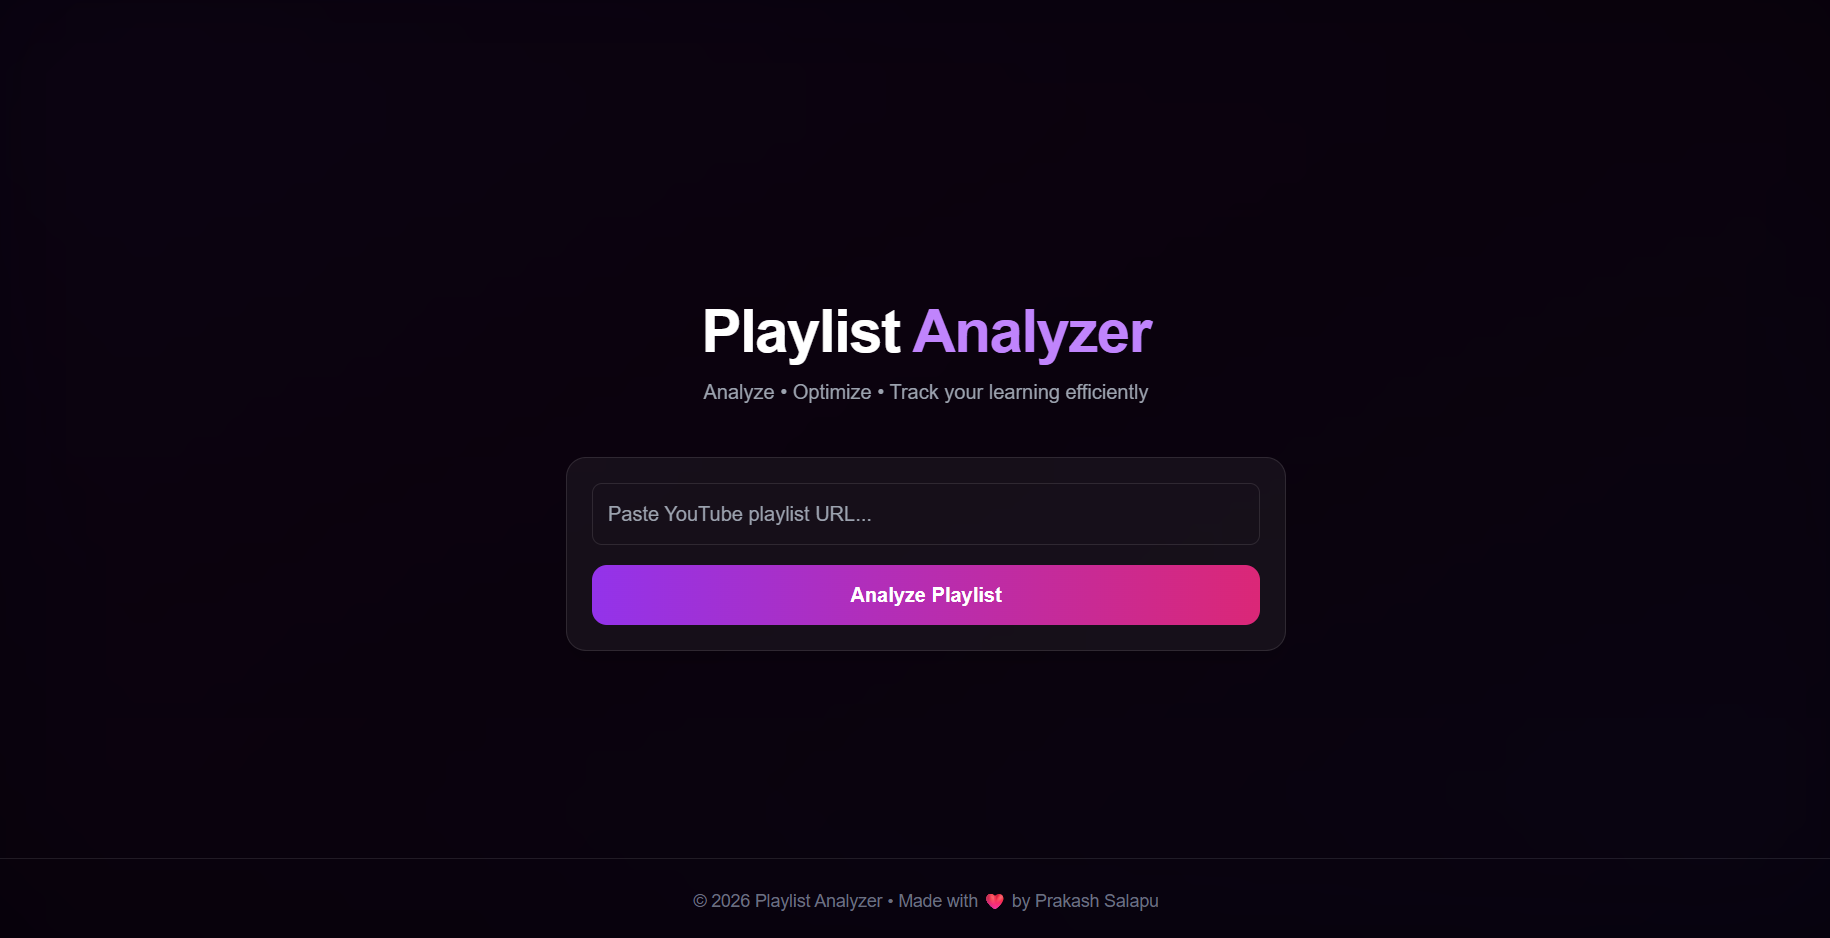
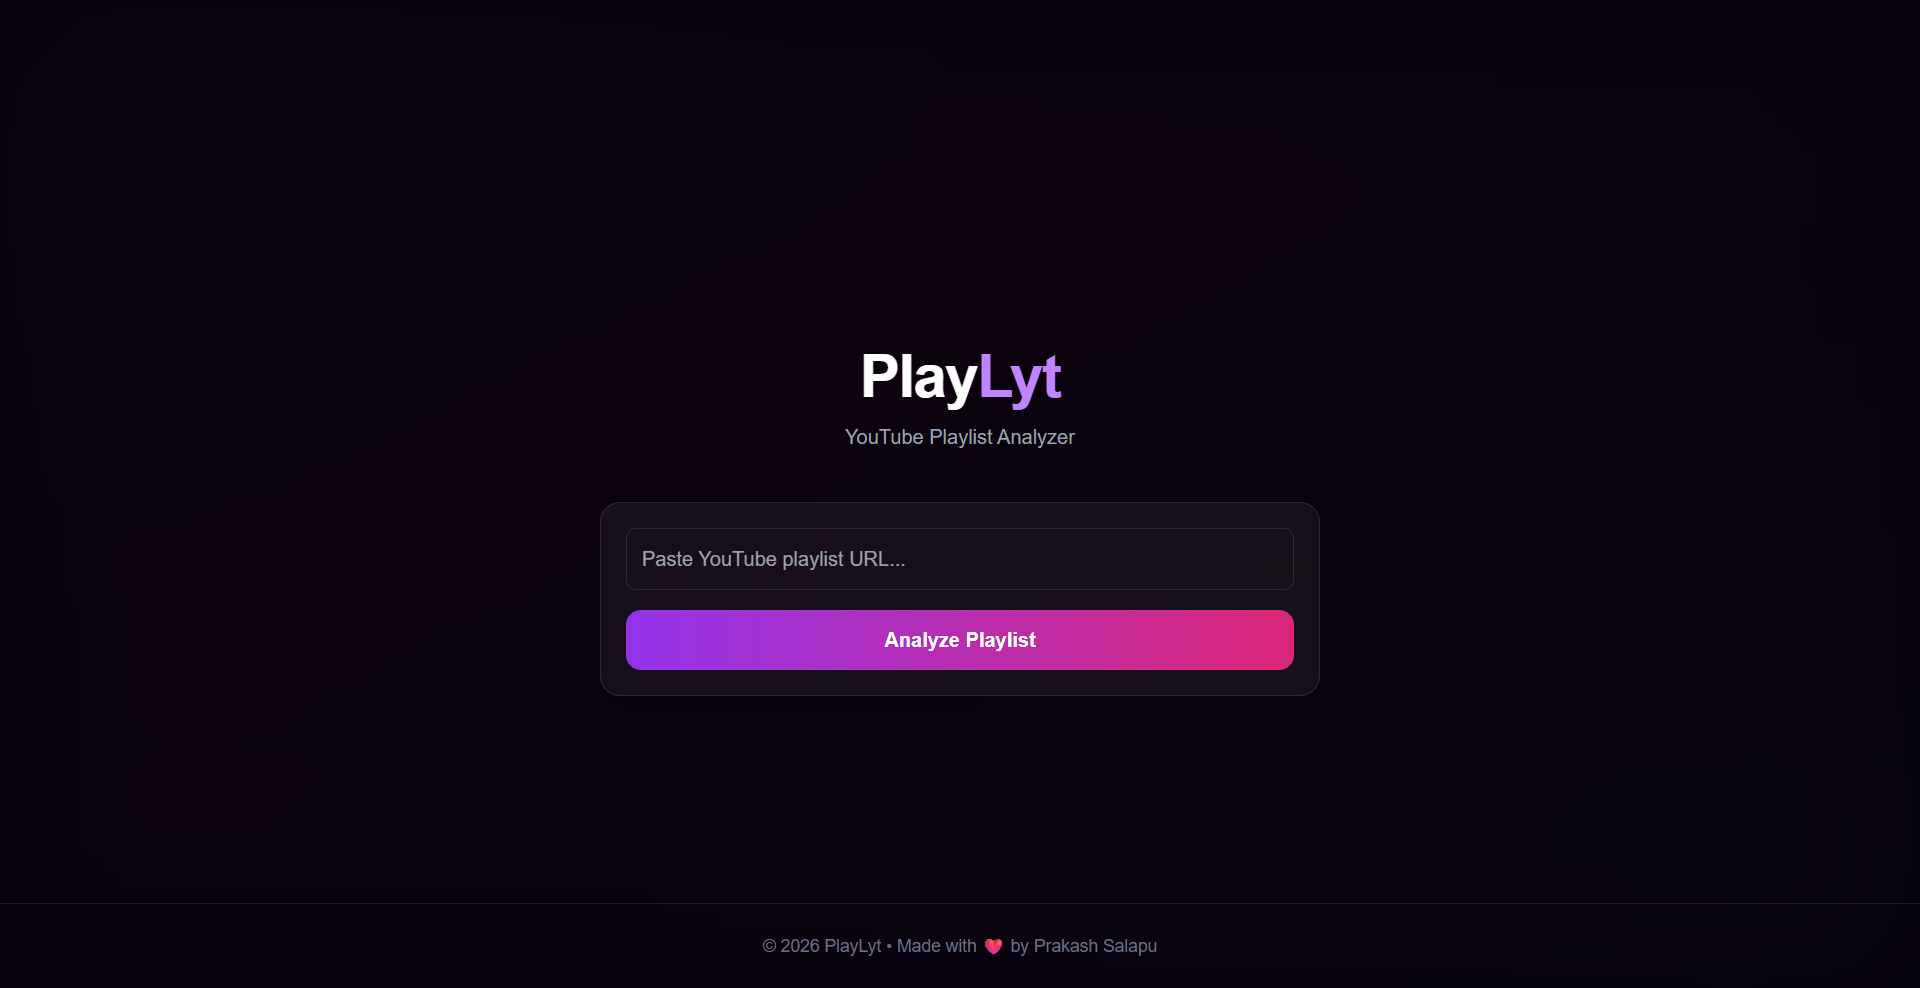
set project name to PlayLyt

Changed region(s): [[0.3115, 0.5256, 0.7164, 0.6802], [0.3738, 0.3092, 0.623, 0.4638], [0.3738, 0.9275, 0.623, 0.9893]]

diff --git a/client/src/App.jsx b/client/src/App.jsx
@@ -58,10 +58,10 @@ export default function App() {
         {!data && (
           <div className="text-center mb-10 animate-fadeIn">
             <h1 className="text-4xl sm:text-5xl font-bold tracking-tight">
-              Playlist <span className="text-purple-400">Analyzer</span>
+              Play<span className="text-purple-400">Lyt</span>
             </h1>
             <p className="text-gray-400 mt-3 text-sm sm:text-base">
-              Analyze • Optimize • Track your learning efficiently
+              YouTube Playlist Analyzer
             </p>
           </div>
         )}
@@ -154,7 +154,7 @@ export default function App() {
 
       {/* FOOTER */}
       <footer className="text-center text-gray-500 text-sm py-6 border-t border-white/10">
-        © {new Date().getFullYear()} Playlist Analyzer • Made with ❤ by Prakash Salapu
+        © {new Date().getFullYear()} PlayLyt • Made with ❤ by Prakash Salapu
       </footer>
     </div>
   );

diff --git a/client/index.html b/client/index.html
@@ -4,7 +4,7 @@
     <meta charset="UTF-8" />
     <link rel="icon" type="image/svg+xml" href="/favicon.svg" />
     <meta name="viewport" content="width=device-width, initial-scale=1.0" />
-    <title>Playlist Analyzer</title>
+    <title>PlayLyt</title>
   </head>
   <body>
     <div id="root"></div>

diff --git a/README.md b/README.md
@@ -1,12 +1,13 @@
-# 🎬 YouTube Playlist Analyzer
 
+# 🎬 PlayLyt
+### YouTube Playlist Analyzer
 A modern web app that analyzes any YouTube playlist and provides insights like total duration, average video length, and optimized watch time based on playback speed.
 
 ---
 
 ## 🚀 Live Demo
 
-👉 https://yt-playlist-length-calculater.vercel.app
+👉 https://playlyt.vercel.app
 
 ---
 
@@ -61,8 +62,8 @@ A modern web app that analyzes any YouTube playlist and provides insights like t
 ### 1⃣ Clone the repo
 
 ```bash
-git clone https://github.com/your-username/youtube-playlist-analyzer.git
-cd youtube-playlist-analyzer
+git clone https://github.com/your-username/playlyt.git
+cd playlyt
 ```
 
 ---
